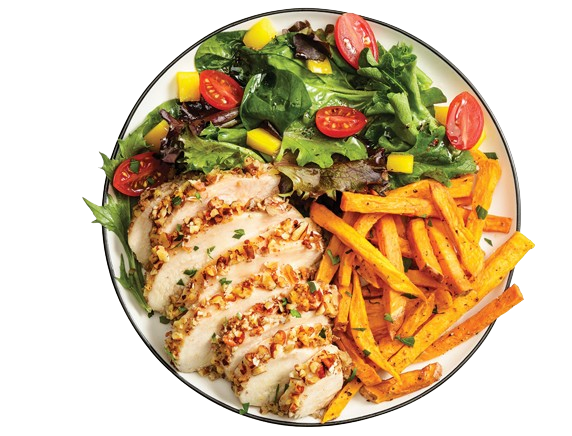
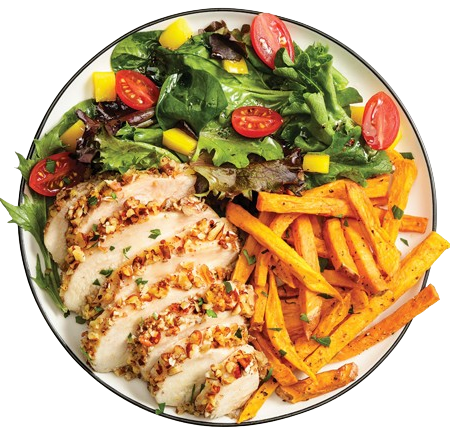
feat: Add animation to hero image

diff --git a/src/Components/Home.jsx b/src/Components/Home.jsx
@@ -18,7 +18,7 @@ const Home = () => {
                 <h3 className='text-4xl'>Best dishes in <span className='font-bold'>one</span> place</h3>
             </div>
             <div className='p-7 pb-0'>
-                <img src={fries} alt="" className=' drop-shadow-2xl'/>
+                <img src={fries} alt="" className=' drop-shadow-2xl rotation'/>
             </div>
         </div>
     );

diff --git a/src/index.css b/src/index.css
@@ -6,3 +6,16 @@
 .font-roboto{
     font-family: Roboto;
 }
+
+@keyframes rotation{
+    0% {
+        transform: rotate(0deg);
+    }
+    100% {
+        transform: rotate(360deg);
+    }
+}
+
+.rotation{
+    animation: rotation linear 50s infinite;
+}
